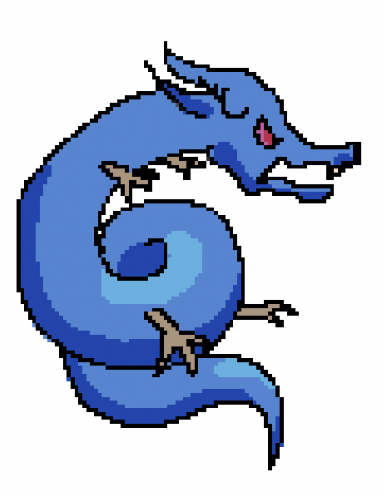
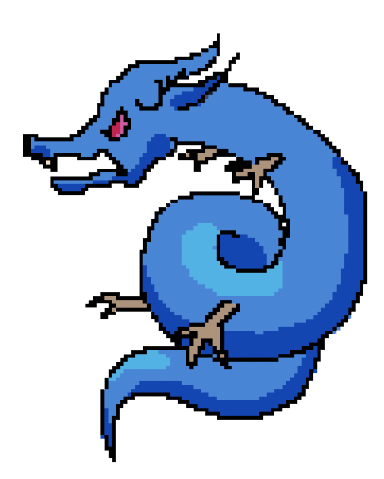
ADD long_wang

diff --git a/2_web/pages_html/telechargement.html b/2_web/pages_html/telechargement.html
@@ -22,6 +22,6 @@
             
         
         
-
+        <img src="/2_web/images/long_wang.png" width="-750">
     </body>
 </html>
